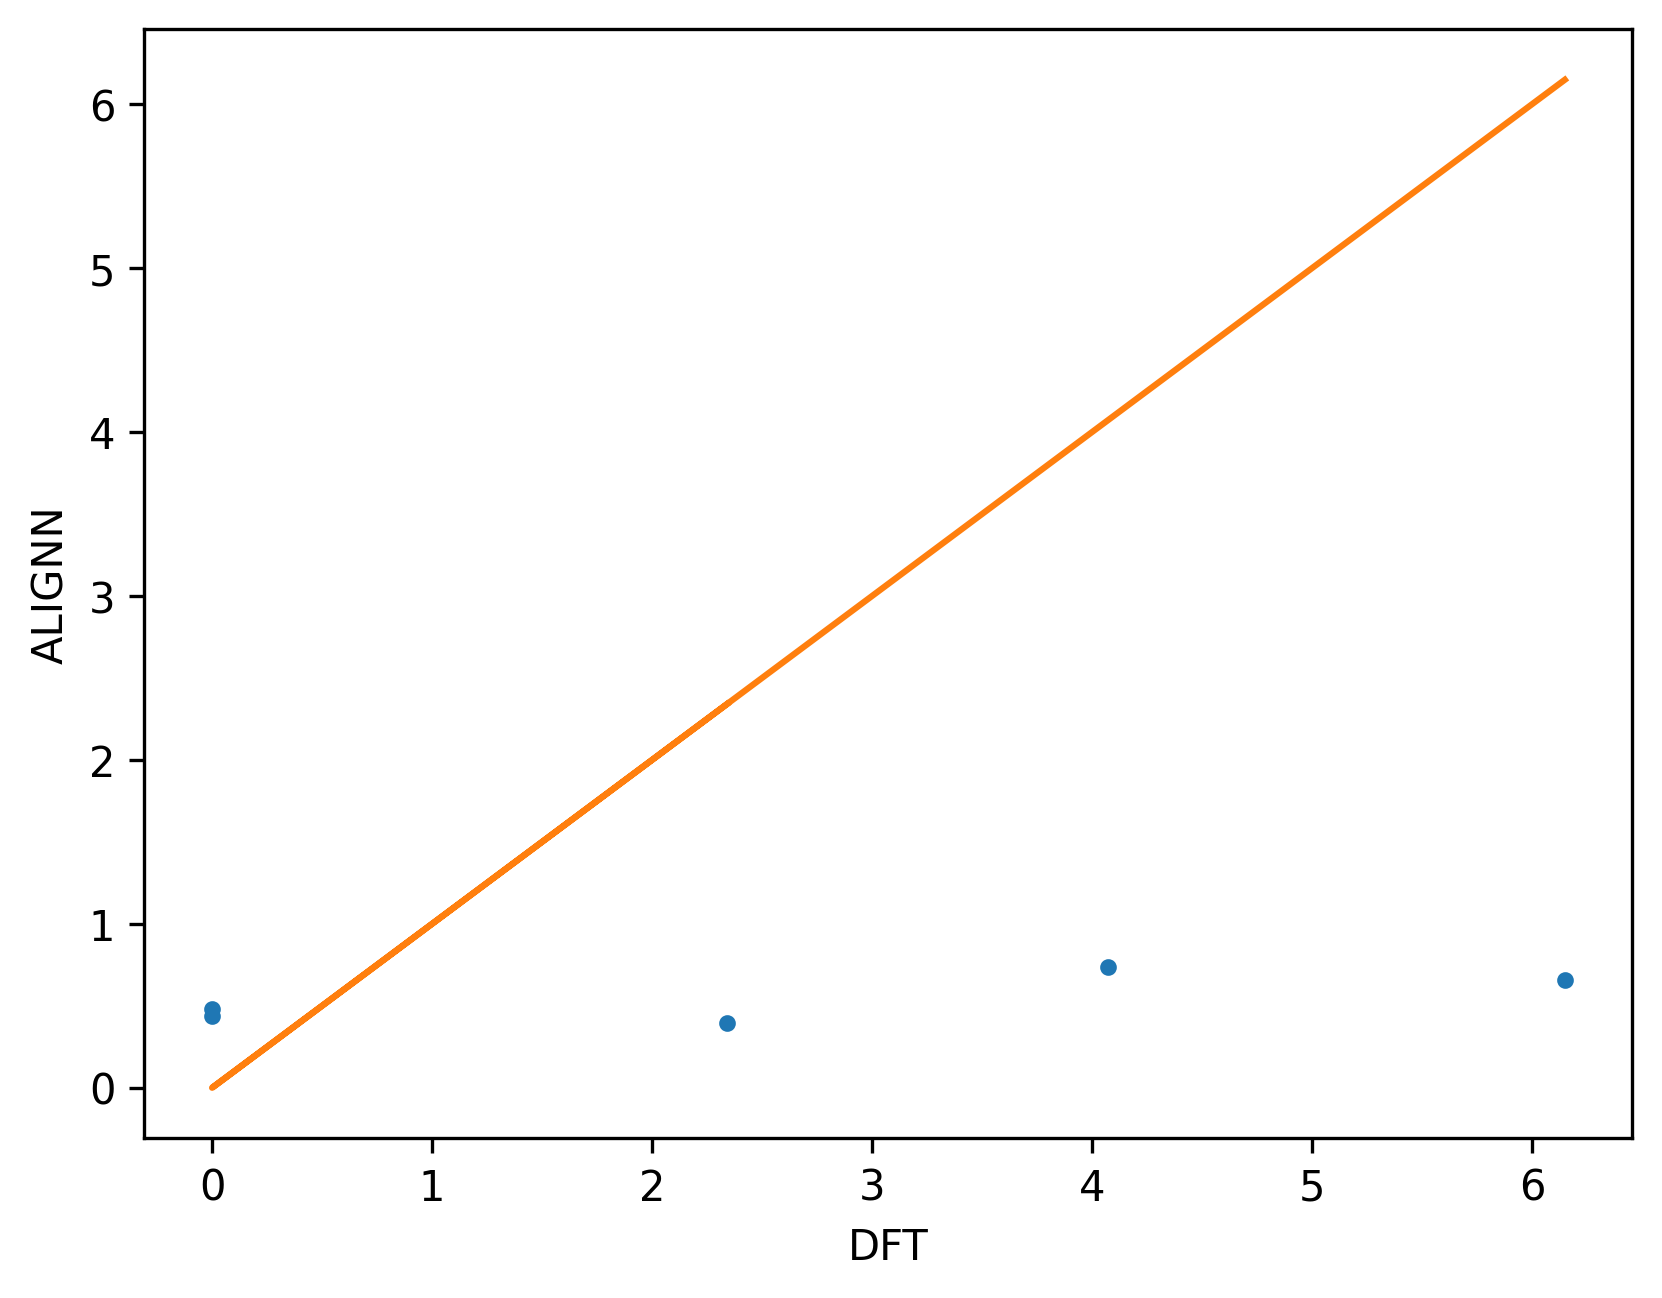
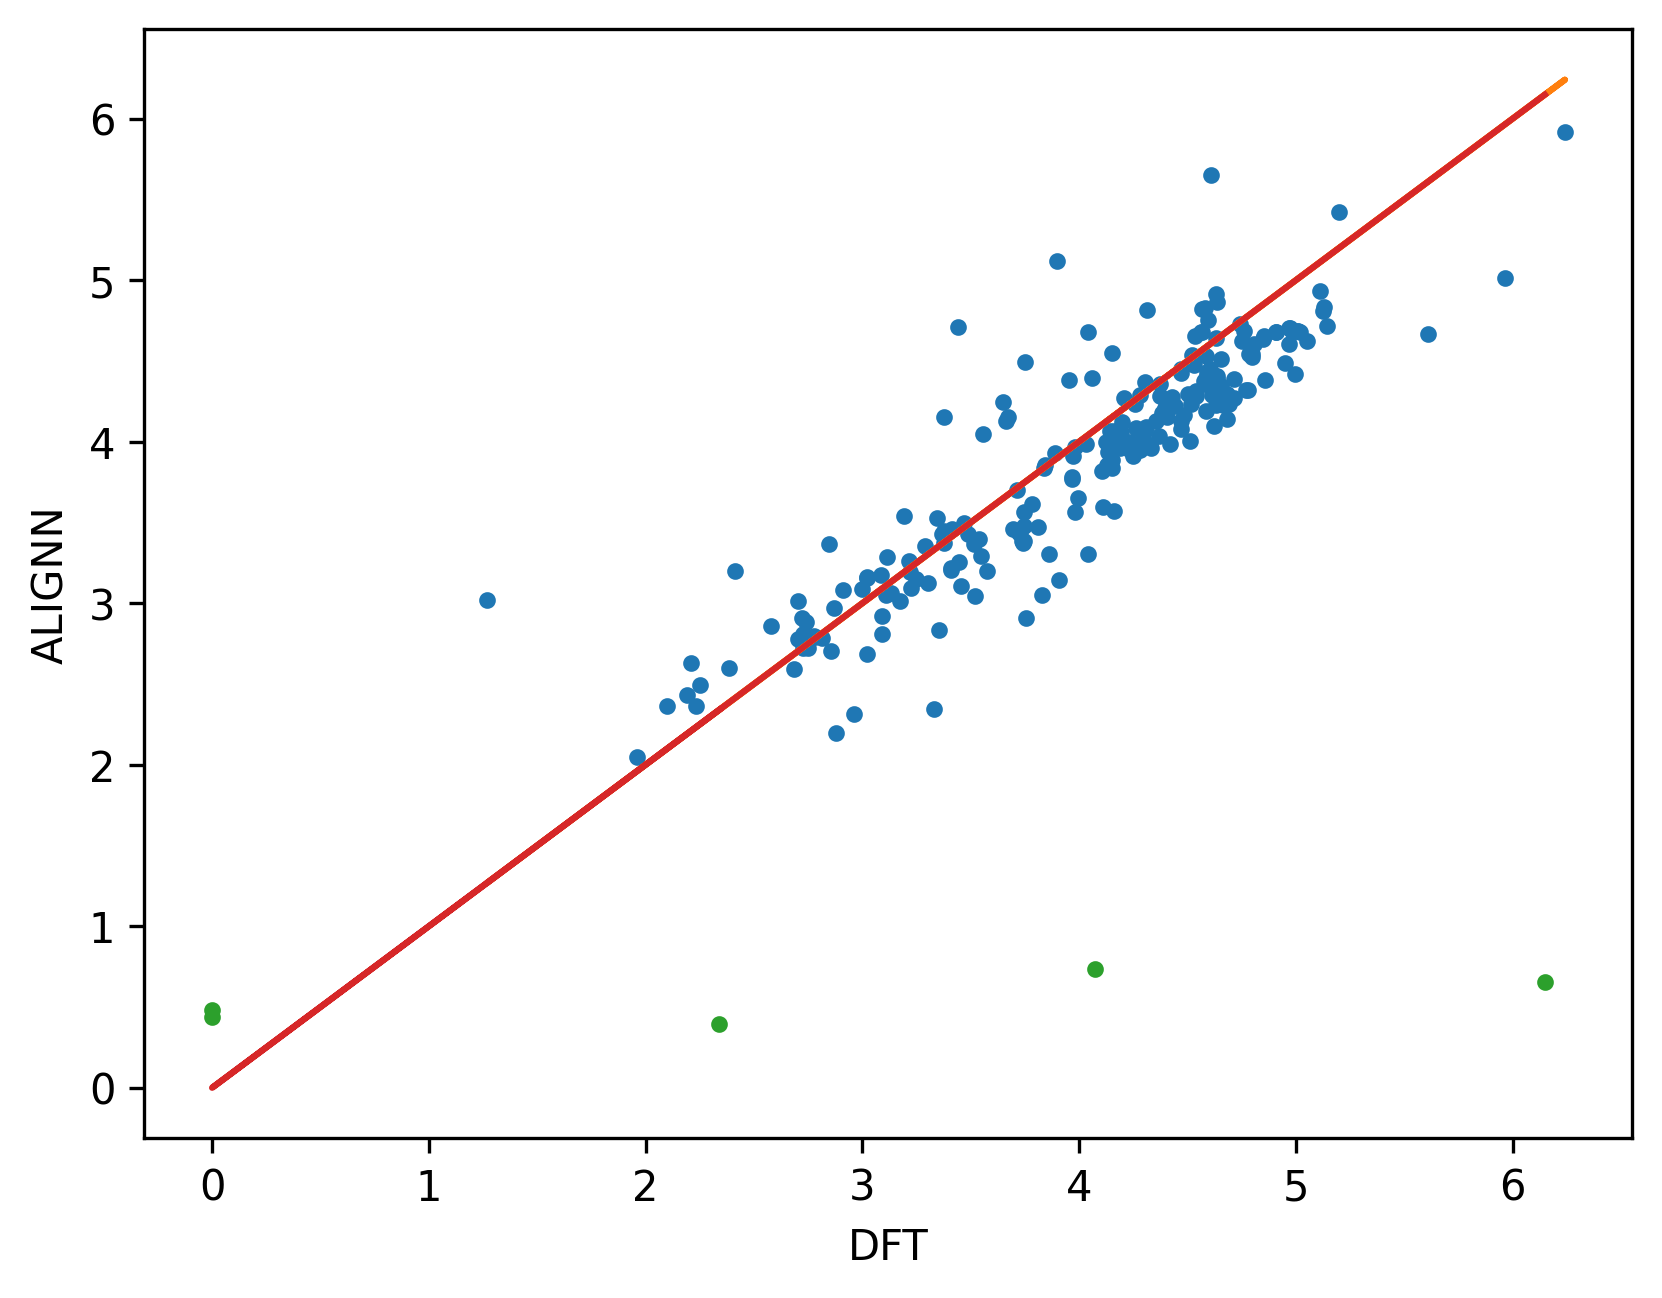
Finished translating second example.

diff --git a/Sec 2 ALIGNN/investigate_structure.py b/Sec 2 ALIGNN/investigate_structure.py
@@ -1,0 +1,78 @@
+# Part 6:  Investigate a particular structure
+
+# Let's build the graph for one of our structures and highlight a more in depth check we might do.
+from evaluating_model import visualize_performance
+from train_sample_data import create_df
+import torch
+from jarvis.core.atoms import Atoms
+from alignn.graphs import Graph
+
+
+def build_graph(model, device, df):
+
+    cutoff = 8.0
+    model=model.to(device)
+    max_neighbors = 12
+    # pick one of the sample data files for this
+    atoms = Atoms.from_poscar('/home/diegop/Documents/Pymatgen-2026/Sec 2 ALIGNN/voltage_data/POSCAR_0.vasp')
+    
+    # We'll read back in a Manganese Oxide structure.
+
+    g, lg = Graph.atom_dgl_multigraph(atoms, cutoff=float(cutoff), max_neighbors=max_neighbors)
+    lat = torch.tensor(atoms.lattice_mat)
+    out_data = (
+        model([g.to(device), lg.to(device),lat.to(device)])['out']
+        .detach()
+        .cpu()
+        .numpy()
+        .flatten()
+        .tolist()[0]
+    )
+
+    print ('predicted Average Voltage (V/ion): ', round(out_data,3))
+    print('Reference Average Voltage (V/ion): ', round(df['Average voltage (V/ion)'][0],3))
+    return atoms
+
+    # Let's apply a 1% strain to the structure, how might that affect voltage?
+
+def apply_strain(atoms):
+    atoms_strained = atoms.strain_atoms(0.01)
+    g, lg = Graph.atom_dgl_multigraph(atoms_strained)
+    lat = torch.tensor(atoms_strained.lattice_mat)
+    out_data = (
+        model([g.to(device), lg.to(device),lat.to(device)])['out']
+        .detach()
+        .cpu()
+        .numpy()
+        .flatten()
+        .tolist()[0]
+    )
+    print ('predicted Average Voltage (V/ion): ', round(out_data,3))
+
+# what about if we Substitute Cobalt for Manganese?
+
+def substitute_atoms(atoms):
+    # Substitute Mn with Co
+    atoms_substituted = atoms
+    atoms_substituted.elements = ['Na', 'Co', 'Co', 'O', 'O', 'O', 'O']
+
+    g, lg = Graph.atom_dgl_multigraph(atoms_substituted)
+    lat = torch.tensor(atoms_substituted.lattice_mat)
+    out_data = (
+        model([g.to(device), lg.to(device),lat.to(device)])['out']
+        .detach()
+        .cpu()
+        .numpy()
+        .flatten()
+        .tolist()[0]
+    )
+    print ('predicted Average Voltage (V/ion): ', round(out_data,3))
+
+device = "cpu"
+
+model = visualize_performance()
+df = create_df()
+atoms = build_graph(model, device, df)
+apply_strain(atoms)
+substitute_atoms(atoms)
+    

diff --git a/Sec 2 ALIGNN/evaluating_model.py b/Sec 2 ALIGNN/evaluating_model.py
@@ -1,0 +1,60 @@
+'''
+!train_alignn.py --root_dir 'voltage_data' \
+                --epochs 10 \
+                --batch_size 16 \
+                --config './voltage_data/config.json' \
+                --output_dir=voltage_output
+'''
+
+# Let's visualize the performance
+
+import torch
+from alignn.models.alignn_atomwise import ALIGNNAtomWise , ALIGNNAtomWiseConfig
+from jarvis.db.jsonutils import loadjson
+import pandas as pd
+
+def visualize_performance():
+    
+    output_features =  1
+    filename = '/home/diegop/Documents/Pymatgen-2026/Sec 2 ALIGNN/voltage_data/alignn/voltage_output/best_model.pt'
+    device = "cpu"
+    if torch.cuda.is_available():
+        device = torch.device("cuda")
+
+    # load config from output folder
+    config=loadjson('/home/diegop/Documents/Pymatgen-2026/Sec 2 ALIGNN/voltage_data/alignn/voltage_output/config.json')
+
+    model = ALIGNNAtomWise(ALIGNNAtomWiseConfig(**config["model"]))
+    model.load_state_dict(torch.load(filename, map_location=device))
+    model.eval()
+    return model
+
+# again load back in the test data
+
+def load_test_data():
+    d=loadjson('/home/diegop/Documents/Pymatgen-2026/Sec 2 ALIGNN/voltage_data/alignn/voltage_output/Test_results.json')
+    x=[i['target_out'][0] for i in d]
+    y=[i['pred_out'] for i in d]
+    ids=[i['id'] for i in d]
+
+    # Create a DataFrame
+    data = {'id': ids, 'target': x, 'prediction': y}
+    voltage_df = pd.DataFrame(data)
+
+    # Save the DataFrame as a CSV file
+    csv_file = '/home/diegop/Documents/Pymatgen-2026/Sec 2 ALIGNN/voltage_data/alignn/voltage_output/prediction_results_test_set.csv'
+    voltage_df.to_csv(csv_file, index=False)
+
+    import matplotlib.pyplot as plt
+    plt.plot(x,y,'.')
+    plt.plot(x,x)
+    plt.xlabel('eqV2')
+    plt.ylabel('ALIGNN')
+    plt.savefig('Prediction_results.png', dpi=300, bbox_inches='tight')
+
+    from sklearn.metrics import mean_absolute_error
+    print('MAE',mean_absolute_error(x,y))
+
+visualize_performance()
+load_test_data()
+